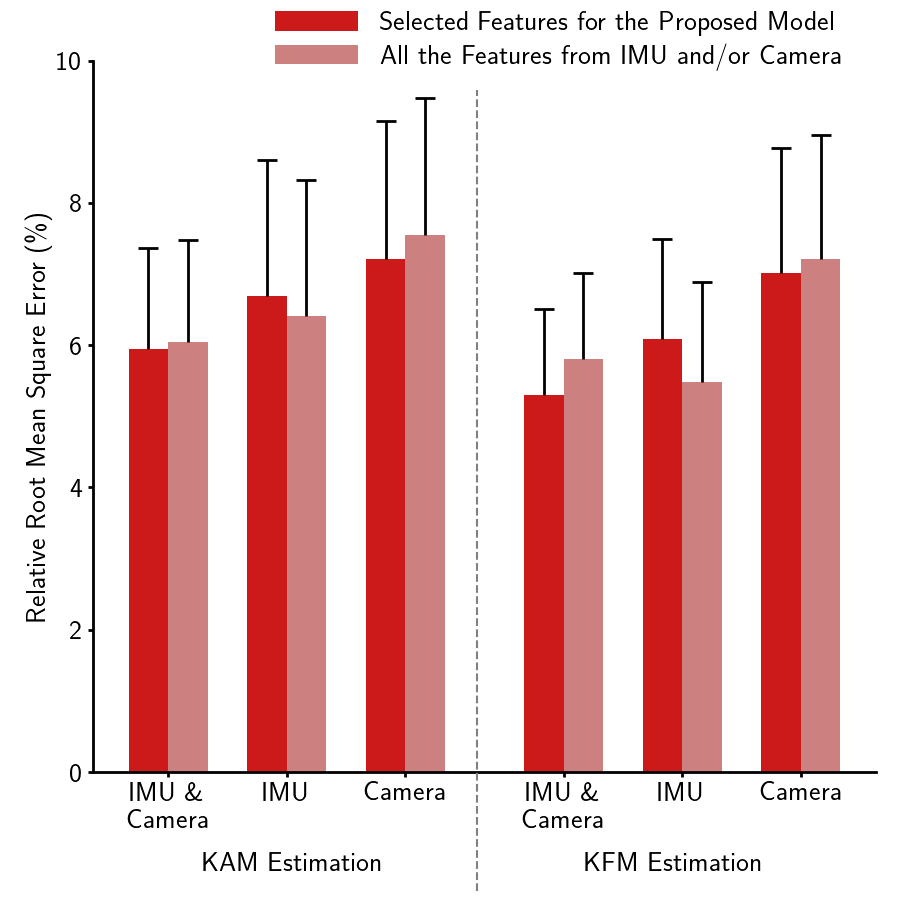
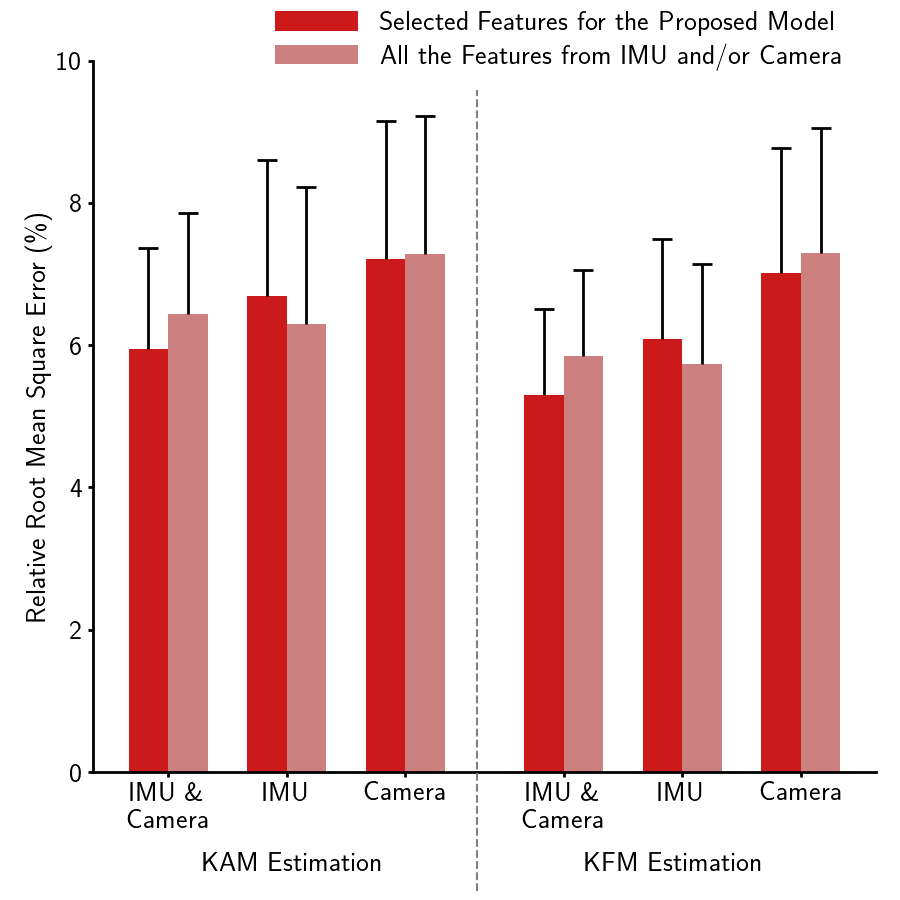
fixed the rand seed, changed all feature defination for tian model

diff --git a/tian_model.py b/tian_model.py
@@ -78,6 +78,7 @@ class TianCNN(nn.Module):
 class TianRNN(nn.Module):
     def __init__(self, x_dim, y_dim, hidden_dim=10, nlayer=2):
         super(TianRNN, self).__init__()
+        torch.manual_seed(0)
         self.hidden_dim = hidden_dim
         self.rnn_layer = nn.LSTM(x_dim, hidden_dim, nlayer, batch_first=True, bidirectional=True)
         self.y_dim = y_dim
@@ -146,7 +147,7 @@ class TianModel(BaseModel):
         self.train_step_lens, self.validation_step_lens, self.test_step_lens = [None] * 3
         self.vid_static_cali()
         self.get_relative_vid_vector()
-        self.get_rotated_gravityfree_body_weighted_imu()
+        self.get_body_weighted_imu()
         self.add_additional_columns()
         self.iter = 0
 
@@ -197,105 +198,49 @@ class TianModel(BaseModel):
             self._data_all_sub[sub_name] = np.concatenate([sub_data, knee_vector], axis=2)
         self._data_fields.extend(['KNEE_X', 'KNEE_Y', 'KNEE_Z'])
 
-    def get_rotated_gravityfree_body_weighted_imu(self, ROTATE_IMU=False):
-        def transform_segment_imu(segment_imu, segment_ml, segment_y, segment_z=None):
-            data_shape_ori = segment_imu.shape
-            segment_acc, segment_gyr = segment_imu[:, :, :3].reshape([-1, 3]), segment_imu[:, :, 3:].reshape([-1, 3])
-            segment_ml = segment_ml.reshape([-1, 3])
-            if segment_z is None:
-                segment_y = segment_y.reshape([-1, 3])
-                segment_z = np.cross(segment_ml, segment_y)
-                segment_x = np.cross(segment_y, segment_z)
-            else:
-                segment_z = segment_z.reshape([-1, 3])
-                segment_y = np.cross(segment_z, segment_ml)
-                segment_x = np.cross(segment_y, segment_z)
-
-            fun_norm_vect = lambda v: v / np.linalg.norm(v)
-            segment_x = np.apply_along_axis(fun_norm_vect, 1, segment_x)
-            segment_y = np.apply_along_axis(fun_norm_vect, 1, segment_y)
-            segment_z = np.apply_along_axis(fun_norm_vect, 1, segment_z)
-
-            dcm_mat = np.array([segment_x, segment_y, segment_z])
-            dcm_mat = np.swapaxes(dcm_mat, 0, 1)
-            segment_acc_rotated = np.array(list(map(np.matmul, dcm_mat, segment_acc)))
-            segment_gyr_rotated = np.array(list(map(np.matmul, dcm_mat, segment_gyr)))
-            segment_imu_transformed = np.column_stack([segment_acc_rotated, segment_gyr_rotated]).reshape(data_shape_ori)
-            segment_imu_transformed[np.isnan(segment_imu_transformed)] = 0
-            return segment_imu_transformed
-        imu_lfoot_col_loc = [self._data_fields.index(field + '_L_FOOT') for field in IMU_FIELDS[:6]]
-        imu_lshank_col_loc = [self._data_fields.index(field + '_L_SHANK') for field in IMU_FIELDS[:6]]
-        imu_lthigh_col_loc = [self._data_fields.index(field + '_L_THIGH') for field in IMU_FIELDS[:6]]
-        imu_rfoot_col_loc = [self._data_fields.index(field + '_R_FOOT') for field in IMU_FIELDS[:6]]
-        imu_rshank_col_loc = [self._data_fields.index(field + '_R_SHANK') for field in IMU_FIELDS[:6]]
-        imu_rthigh_col_loc = [self._data_fields.index(field + '_R_THIGH') for field in IMU_FIELDS[:6]]
-        imu_pelvis_col_loc = [self._data_fields.index(field + '_WAIST') for field in IMU_FIELDS[:6]]
-        imu_trunk_col_loc = [self._data_fields.index(field + '_CHEST') for field in IMU_FIELDS[:6]]
-
-        marker_lknee_col_loc = [self._data_fields.index(field_name) for field_name in LKNEE_MARKER_FIELDS]
-        marker_lankle_col_loc = [self._data_fields.index(field_name) for field_name in LANKLE_MARKER_FIELDS]
-        marker_lhip_col_loc = [self._data_fields.index(field_name) for field_name in LHIP_MARKER_FIELDS]
-        marker_rknee_col_loc = [self._data_fields.index(field_name) for field_name in RKNEE_MARKER_FIELDS]
-        marker_rankle_col_loc = [self._data_fields.index(field_name) for field_name in RANKLE_MARKER_FIELDS]
-        marker_rhip_col_loc = [self._data_fields.index(field_name) for field_name in RHIP_MARKER_FIELDS]
-        marker_asis_col_loc = [self._data_fields.index(field_name) for field_name in ASIS_MARKER_FIELDS]
-        marker_psis_col_loc = [self._data_fields.index(field_name) for field_name in PSIS_MARKER_FIELDS]
-        marker_shoulder_col_loc = [self._data_fields.index(field_name) for field_name in SHOULDER_MARKER_FIELDS]
-        marker_spine_col_loc = [self._data_fields.index(field_name) for field_name in SPINE_MARKER_FIELDS]
-
+    def get_body_weighted_imu(self):
         weight_col_loc = self._data_fields.index(SUBJECT_WEIGHT)
         for sub_name, sub_data in self._data_all_sub.items():
-            if ROTATE_IMU:
-                lshank_ml = sub_data[:, :, marker_lknee_col_loc[:3]] - sub_data[:, :, marker_lknee_col_loc[3:]]
-                lshank_y = (sub_data[:, :, marker_lknee_col_loc[:3]] + sub_data[:, :, marker_lknee_col_loc[3:]]) / 2 - \
-                           (sub_data[:, :, marker_lankle_col_loc[:3]] + sub_data[:, :, marker_lankle_col_loc[3:]]) / 2
-                sub_data[:, :, imu_lshank_col_loc] = transform_segment_imu(sub_data[:, :, imu_lshank_col_loc], lshank_ml, lshank_y)
-                lthigh_ml = lshank_ml
-                lthigh_y = sub_data[:, :, marker_lhip_col_loc] - \
-                           (sub_data[:, :, marker_lknee_col_loc[:3]] + sub_data[:, :, marker_lknee_col_loc[3:]]) / 2
-                sub_data[:, :, imu_lthigh_col_loc] = transform_segment_imu(sub_data[:, :, imu_lthigh_col_loc], lthigh_ml, lthigh_y)
-                trunk_ml = sub_data[:, :, marker_shoulder_col_loc[:3]] - sub_data[:, :, marker_shoulder_col_loc[3:]]
-                trunk_y = sub_data[:, :, marker_spine_col_loc[:3]] - sub_data[:, :, marker_spine_col_loc[3:]]
-                sub_data[:, :, imu_trunk_col_loc] = transform_segment_imu(sub_data[:, :, imu_trunk_col_loc], trunk_ml, trunk_y)
-                pelvis_ml = sub_data[:, :, marker_asis_col_loc[:3]] - sub_data[:, :, marker_asis_col_loc[3:]]
-                pelvis_z = (sub_data[:, :, marker_asis_col_loc[:3]] + sub_data[:, :, marker_asis_col_loc[3:]]) / 2 - \
-                           (sub_data[:, :, marker_psis_col_loc[:3]] + sub_data[:, :, marker_psis_col_loc[3:]]) / 2
-                sub_data[:, :, imu_pelvis_col_loc] = transform_segment_imu(sub_data[:, :, imu_pelvis_col_loc], pelvis_ml, None, pelvis_z)
-                rshank_ml = sub_data[:, :, marker_rknee_col_loc[:3]] - sub_data[:, :, marker_rknee_col_loc[3:]]
-                rshank_y = (sub_data[:, :, marker_rknee_col_loc[:3]] + sub_data[:, :, marker_rknee_col_loc[3:]]) / 2 - \
-                          (sub_data[:, :, marker_rankle_col_loc[:3]] + sub_data[:, :, marker_rankle_col_loc[3:]]) / 2
-                sub_data[:, :, imu_rshank_col_loc] = transform_segment_imu(sub_data[:, :, imu_rshank_col_loc], rshank_ml, rshank_y)
-                rthigh_ml = rshank_ml
-                rthigh_y = sub_data[:, :, marker_rhip_col_loc] - \
-                          (sub_data[:, :, marker_rknee_col_loc[:3]] + sub_data[:, :, marker_rknee_col_loc[3:]]) / 2
-                sub_data[:, :, imu_rthigh_col_loc] = transform_segment_imu(sub_data[:, :, imu_rthigh_col_loc], rthigh_ml, rthigh_y)
-
             sub_weight = sub_data[0, 0, weight_col_loc]
-            sub_data[:, :, imu_lfoot_col_loc[:3]] = sub_data[:, :, imu_lfoot_col_loc[:3]] * sub_weight * SEGMENT_MASS_PERCENT['L_FOOT'] / 100
-            sub_data[:, :, imu_lshank_col_loc[:3]] = sub_data[:, :, imu_lshank_col_loc[:3]] * sub_weight * SEGMENT_MASS_PERCENT['L_SHANK'] / 100
-            sub_data[:, :, imu_lthigh_col_loc[:3]] = sub_data[:, :, imu_lthigh_col_loc[:3]] * sub_weight * SEGMENT_MASS_PERCENT['L_THIGH'] / 100
-            sub_data[:, :, imu_rfoot_col_loc[:3]] = sub_data[:, :, imu_rfoot_col_loc[:3]] * sub_weight * SEGMENT_MASS_PERCENT['R_FOOT'] / 100
-            sub_data[:, :, imu_rshank_col_loc[:3]] = sub_data[:, :, imu_rshank_col_loc[:3]] * sub_weight * SEGMENT_MASS_PERCENT['R_SHANK'] / 100
-            sub_data[:, :, imu_rthigh_col_loc[:3]] = sub_data[:, :, imu_rthigh_col_loc[:3]] * sub_weight * SEGMENT_MASS_PERCENT['R_THIGH'] / 100
-            sub_data[:, :, imu_pelvis_col_loc[:3]] = sub_data[:, :, imu_pelvis_col_loc[:3]] * sub_weight * SEGMENT_MASS_PERCENT['WAIST'] / 100
-            sub_data[:, :, imu_trunk_col_loc[:3]] = sub_data[:, :, imu_trunk_col_loc[:3]] * sub_weight * SEGMENT_MASS_PERCENT['CHEST'] / 100
+            if USE_ALL_FEATURES:
+                segment_weight_list = [sub_weight * SEGMENT_MASS_PERCENT[segment] / 100 for segment in SENSOR_LIST]
+                segment_weights = np.full([sub_data.shape[0], sub_data.shape[1], len(SENSOR_LIST)], segment_weight_list)
+                self._data_all_sub[sub_name] = np.concatenate([sub_data, segment_weights], axis=2)
+                if 'L_FOOT_WEIGHT' not in self._data_fields:
+                    self._data_fields.extend(SEGMENT_WEIGHTS)
+            else:
+                imu_lfoot_col_loc = [self._data_fields.index(field + '_L_FOOT') for field in IMU_FIELDS[:6]]
+                imu_lshank_col_loc = [self._data_fields.index(field + '_L_SHANK') for field in IMU_FIELDS[:6]]
+                imu_lthigh_col_loc = [self._data_fields.index(field + '_L_THIGH') for field in IMU_FIELDS[:6]]
+                imu_rfoot_col_loc = [self._data_fields.index(field + '_R_FOOT') for field in IMU_FIELDS[:6]]
+                imu_rshank_col_loc = [self._data_fields.index(field + '_R_SHANK') for field in IMU_FIELDS[:6]]
+                imu_rthigh_col_loc = [self._data_fields.index(field + '_R_THIGH') for field in IMU_FIELDS[:6]]
+                imu_pelvis_col_loc = [self._data_fields.index(field + '_WAIST') for field in IMU_FIELDS[:6]]
+                imu_trunk_col_loc = [self._data_fields.index(field + '_CHEST') for field in IMU_FIELDS[:6]]
 
-            self._data_all_sub[sub_name] = sub_data
+                sub_data[:, :, imu_lfoot_col_loc[:3]] = sub_data[:, :, imu_lfoot_col_loc[:3]] * sub_weight * SEGMENT_MASS_PERCENT['L_FOOT'] / 100
+                sub_data[:, :, imu_lshank_col_loc[:3]] = sub_data[:, :, imu_lshank_col_loc[:3]] * sub_weight * SEGMENT_MASS_PERCENT['L_SHANK'] / 100
+                sub_data[:, :, imu_lthigh_col_loc[:3]] = sub_data[:, :, imu_lthigh_col_loc[:3]] * sub_weight * SEGMENT_MASS_PERCENT['L_THIGH'] / 100
+                sub_data[:, :, imu_rfoot_col_loc[:3]] = sub_data[:, :, imu_rfoot_col_loc[:3]] * sub_weight * SEGMENT_MASS_PERCENT['R_FOOT'] / 100
+                sub_data[:, :, imu_rshank_col_loc[:3]] = sub_data[:, :, imu_rshank_col_loc[:3]] * sub_weight * SEGMENT_MASS_PERCENT['R_SHANK'] / 100
+                sub_data[:, :, imu_rthigh_col_loc[:3]] = sub_data[:, :, imu_rthigh_col_loc[:3]] * sub_weight * SEGMENT_MASS_PERCENT['R_THIGH'] / 100
+                sub_data[:, :, imu_pelvis_col_loc[:3]] = sub_data[:, :, imu_pelvis_col_loc[:3]] * sub_weight * SEGMENT_MASS_PERCENT['WAIST'] / 100
+                sub_data[:, :, imu_trunk_col_loc[:3]] = sub_data[:, :, imu_trunk_col_loc[:3]] * sub_weight * SEGMENT_MASS_PERCENT['CHEST'] / 100
+                self._data_all_sub[sub_name] = sub_data
 
     def preprocess_train_data(self, x, y, weight):
         y['midout_force_x'], y['midout_force_z'] = -y['midout_force_x'], -y['midout_force_z']
         y['midout_r_x'], y['midout_r_z'] = y['midout_r_x'] / 1000, y['midout_r_z'] / 1000
-        self._x_fields_acc_loc = {}
+        self._x_fields_loc_and_mode = {}
         for k in set(list(x.keys())) - set(['anthro']):
             acc_loc = [self._x_fields[k].index(field) for field in self._x_fields[k] if 'Acc' in field]
-            other_loc = [self._x_fields[k].index(field) for field in self._x_fields[k] if 'Acc' not in field]
-            self._x_fields_acc_loc[k] = {'acc_loc': acc_loc, 'other_loc': other_loc}
-            if len(acc_loc) > 0:
-                x[k][:, :, acc_loc] = self.normalize_array_separately(
-                    x[k][:, :, acc_loc], k+'acc', 'fit_transform', scalar_mode='by_all_columns')
-            if len(other_loc) > 0:
-                x[k][:, :, other_loc] = self.normalize_array_separately(
-                    x[k][:, :, other_loc], k+'other', 'fit_transform', scalar_mode='by_each_column')
+            weight_loc = [self._x_fields[k].index(field) for field in self._x_fields[k] if 'WEIGHT' in field]
+            other_loc = [self._x_fields[k].index(field) for field in self._x_fields[k] if 'Acc' not in field and 'WEIGHT' not in field]
+            self._x_fields_loc_and_mode[k] = ([acc_loc, weight_loc, other_loc], ['acc', 'weight', 'other'], ['by_all_columns', 'by_all_columns', 'by_each_column'])
+            for loc, loc_name, mode in zip(*self._x_fields_loc_and_mode[k]):
+                if len(loc) > 0:
+                    x[k][:, :, loc] = self.normalize_array_separately(
+                        x[k][:, :, loc], k+loc_name, 'fit_transform', scalar_mode=mode)
 
         y_need_norm = {k: y[k] for k in set(list(y.keys())) - set(['main_output', 'auxiliary_info'])}
         y.update(
@@ -307,13 +252,10 @@ class TianModel(BaseModel):
         y['midout_r_x'], y['midout_r_z'] = y['midout_r_x'] / 1000, y['midout_r_z'] / 1000
 
         for k in set(list(x.keys())) - set(['anthro']):
-            acc_loc, other_loc = self._x_fields_acc_loc[k]['acc_loc'], self._x_fields_acc_loc[k]['other_loc']
-            if len(acc_loc) > 0:
-                x[k][:, :, acc_loc] = self.normalize_array_separately(
-                    x[k][:, :, acc_loc], k+'acc', 'transform', scalar_mode='by_all_columns')
-            if len(other_loc) > 0:
-                x[k][:, :, other_loc] = self.normalize_array_separately(
-                    x[k][:, :, other_loc], k+'other', 'transform', scalar_mode='by_each_column')
+            for loc, loc_name, mode in zip(*self._x_fields_loc_and_mode[k]):
+                if len(loc) > 0:
+                    x[k][:, :, loc] = self.normalize_array_separately(
+                        x[k][:, :, loc], k+loc_name, 'transform', scalar_mode=mode)
 
         y_need_norm = {k: y[k] for k in set(list(y.keys())) - set(['main_output', 'auxiliary_info'])}
         y.update(**self.normalize_data(y_need_norm, self._data_scalar, 'transform', scalar_mode='by_each_column'))
@@ -370,15 +312,11 @@ class TianModel(BaseModel):
         self.build_sub_model(model_fx, x_train_fx, y_train_fx, x_validation_fx, y_validation_fx, validation_weight, params)
 
         four_source_model = FourSourceModel(model_fx, model_fz, model_rx, model_rz, self._data_scalar)
-        model_fx_pre = type(model_fx)(x_train_fx.shape[2], y_train_fx.shape[2]).cuda()
-        model_fz_pre = type(model_fz)(x_train_fz.shape[2], y_train_fz.shape[2]).cuda()
-        model_rx_pre = type(model_rx)(x_train_rx.shape[2], y_train_rx.shape[2]).cuda()
-        model_rz_pre = type(model_rz)(x_train_rz.shape[2], y_train_rz.shape[2]).cuda()
-        model_fx_pre.load_state_dict(model_fx.state_dict())
-        model_fz_pre.load_state_dict(model_fz.state_dict())
-        model_rx_pre.load_state_dict(model_rx.state_dict())
-        model_rz_pre.load_state_dict(model_rz.state_dict())
         four_source_model_pre = copy.deepcopy(four_source_model).cuda()
+        model_fx_pre = copy.deepcopy(model_fx).cuda()
+        model_fz_pre = copy.deepcopy(model_fz).cuda()
+        model_rx_pre = copy.deepcopy(model_rx).cuda()
+        model_rz_pre = copy.deepcopy(model_rz).cuda()
 
         params = {**sub_model_base_param, **{'target_name': 'main_output', 'fields': ['EXT_KM_Y']}}
         # self.build_main_model(four_source_model, x_train, y_train, x_validation, y_validation, validation_weight, params)
@@ -676,7 +614,7 @@ def run_kam(use_imu, use_op):
     input_vid = {'force_x': VID_180_FIELDS, 'force_z': VID_180_FIELDS, 'r_x': VID_180_FIELDS, 'r_z': ['RKnee_y_90']}
 
     if USE_ALL_FEATURES:
-        input_imu = {'force_x': ACC_GYR_ALL, 'force_z': ACC_GYR_ALL, 'r_x': ACC_GYR_ALL, 'r_z': ACC_GYR_ALL}
+        input_imu = {'force_x': ACC_ALL_GYR_LEG, 'force_z': ACC_ALL_GYR_LEG, 'r_x': ACC_ALL_GYR_LEG, 'r_z': ACC_ALL_GYR_LEG}
         input_vid = {'force_x': VID_ALL, 'force_z': VID_ALL, 'r_x': VID_ALL, 'r_z': VID_ALL}
 
     x_fields = {'force_x': [], 'force_z': [], 'r_x': [], 'r_z': []}
@@ -704,7 +642,7 @@ def run_kfm(use_imu, use_op):
     input_vid = {'force_y': VID_90_FIELDS, 'force_z': VID_180_FIELDS, 'r_y': VID_90_FIELDS, 'r_z': ['RKnee_y_90']}
 
     if USE_ALL_FEATURES:
-        input_imu = {'force_y': ACC_GYR_ALL, 'force_z': ACC_GYR_ALL, 'r_y': ACC_GYR_ALL, 'r_z': ACC_GYR_ALL}
+        input_imu = {'force_y': ACC_ALL_GYR_LEG, 'force_z': ACC_ALL_GYR_LEG, 'r_y': ACC_ALL_GYR_LEG, 'r_z': ACC_ALL_GYR_LEG}
         input_vid = {'force_y': VID_ALL, 'force_z': VID_ALL, 'r_y': VID_ALL, 'r_z': VID_ALL}
 
     x_fields = {'force_y': [], 'force_z': [], 'r_y': [], 'r_z': []}
@@ -742,8 +680,11 @@ if __name__ == "__main__":
     R_FOOT_SHANK_GYR = ["Gyro" + axis + sensor for sensor in ['R_SHANK', 'R_FOOT'] for axis in ['X_', 'Y_', 'Z_']]
 
     ACC_GYR_ALL = [field + '_' + sensor for sensor in SENSOR_LIST for field in IMU_FIELDS[:6]]
+    SEGMENT_WEIGHTS = [segment + '_WEIGHT' for segment in SENSOR_LIST]
+    ACC_GYR_WEIGHTS_ALL = ACC_GYR_ALL + SEGMENT_WEIGHTS
+    ACC_ALL_GYR_LEG = ACC_ML + ACC_AP + ACC_VERTICAL + R_FOOT_SHANK_GYR
     VID_ALL = VID_90_FIELDS + VID_180_FIELDS + ['RKnee_y_90']
-    USE_ALL_FEATURES = False
+    USE_ALL_FEATURES = True
 
     run_kam(use_imu=True, use_op=True)
     run_kam(use_imu=True, use_op=False)

diff --git a/figures/post_hoc_analysis.py b/figures/post_hoc_analysis.py
@@ -1,22 +1,47 @@
 from scikit_posthocs import posthoc_tukey, posthoc_ttest
 import pandas as pd
 import numpy as np
-from const import TRIALS, SUBJECTS
+from const import TRIALS, SUBJECTS, TRIALS_PRINT
+from scipy.stats import ttest_1samp
 
-
-REMOVE_SUBJECT_MEAN = True
 
 if __name__ == '__main__':
+    result_date = 'results/0122_'       # _used_all_the_features_
     metric = 'RMSE'
     result_names = ['_IMU_OP', '_IMU', '_OP']
-    for target in ['KAM']:
-        result_df = pd.read_csv('./exports/' + target + '_estimation_result_individual.csv')
-        for trial in TRIALS + ['all']:
+
+    """ t test to compare whether the increase is significantly larger than zero """
+    for target in ['KAM', 'KFM']:
+        result_df = pd.read_csv(result_date + target + '/estimation_result_individual.csv')
+        for i_trial, trial in enumerate(TRIALS):
             trial_df = result_df[result_df['trial'] == trial][[metric + result_name for result_name in result_names]]
-            if REMOVE_SUBJECT_MEAN:
-                sub_mean = np.mean(trial_df.values, axis=1)
-                trial_df = trial_df.subtract(sub_mean, axis=0)
-            trial_df = trial_df.melt(var_name='groups', value_name='values')
-            posthoc_result = posthoc_tukey(trial_df, val_col='values', group_col='groups')
-            print('\n' + trial)
-            print(posthoc_result)
+            print('\t\t& {:12}'.format(TRIALS_PRINT[i_trial]), end='')
+            for result in result_names[1:]:
+                increase_percent = (trial_df[metric + result] - trial_df[metric + '_IMU_OP']) / trial_df[metric + '_IMU_OP'] * 100
+                significance = ''
+                if ttest_1samp(increase_percent, 0.).pvalue < 0.05:
+                    significance = '*'
+                print('&{:6.1f} ({:4.1f}) {:1}'.format(np.mean(increase_percent), np.std(increase_percent), significance), end='\t')
+            print('\\\\')
+
+            # only_imu_increase = (trial_df[metric + '_IMU'] - trial_df[metric + '_IMU_OP']) / trial_df[metric + '_IMU_OP'] * 100
+            # only_cam_increase = (trial_df[metric + '_OP'] - trial_df[metric + '_IMU_OP']) / trial_df[metric + '_IMU_OP'] * 100
+            # p_value, _ = ttest_1samp(only_imu_increase, 0.)
+            # print('\t\t& {:12}& {:6.1f} ({:4.1f}) &{:6.1f} ({:4.1f}) \\\\'.format(TRIALS_PRINT[i_trial],
+            #     np.mean(only_imu_increase), np.std(only_imu_increase), np.mean(only_cam_increase), np.std(only_cam_increase)))
+
+
+
+    # """ post hoc to compare actual values """
+    # REMOVE_SUBJECT_MEAN = True
+    # for target in ['KAM']:
+    #     result_df = pd.read_csv(result_date + target + '/estimation_result_individual.csv')
+    #     for trial in TRIALS + ['all']:
+    #         trial_df = result_df[result_df['trial'] == trial][[metric + result_name for result_name in result_names]]
+    #         if REMOVE_SUBJECT_MEAN:
+    #             sub_mean = np.mean(trial_df.values, axis=1)
+    #             trial_df = trial_df.subtract(sub_mean, axis=0)
+    #         trial_df = trial_df.melt(var_name='groups', value_name='values')
+    #         posthoc_result = posthoc_tukey(trial_df, val_col='values', group_col='groups')
+    #         print('\n' + trial)
+    #         print(posthoc_result)

diff --git a/figures/f5.py b/figures/f5.py
@@ -62,7 +62,7 @@ if __name__ == "__main__":
     for i_moment, moment in enumerate(['KAM', 'KFM']):
         sel_feature_df = pd.read_csv('results/0122_' + moment + '/estimation_result_individual.csv')
         sel_feature_df = sel_feature_df[sel_feature_df['trial'] == 'all']
-        all_feature_df = pd.read_csv('results/0120_used_all_the_features_' + moment + '/estimation_result_individual.csv')
+        all_feature_df = pd.read_csv('results/0122_used_all_the_features_' + moment + '/estimation_result_individual.csv')
         all_feature_df = all_feature_df[all_feature_df['trial'] == 'all']
         for data_modal in ['IMU_OP', 'IMU', 'OP']:
             sel_feature_result = sel_feature_df[target_matric + data_modal]

diff --git a/figures/f3.py b/figures/f3.py
@@ -59,10 +59,10 @@ def draw_f3(mean_std_kam, mean_std_kfm):
 
 
 if __name__ == "__main__":
-    with h5py.File('results/0114_KAM/OP/results.h5', 'r') as hf:
+    with h5py.File('results/0122_KAM/OP/results.h5', 'r') as hf:
         kam_data_all_sub = {subject: subject_data[:] for subject, subject_data in hf.items()}
         kam_data_fields = json.loads(hf.attrs['columns'])
-    with h5py.File('results/0114_KFM/OP/results.h5', 'r') as hf:
+    with h5py.File('results/0122_KFM/OP/results.h5', 'r') as hf:
         kfm_data_all_sub = {subject: subject_data[:] for subject, subject_data in hf.items()}
         kfm_data_fields = json.loads(hf.attrs['columns'])
 

diff --git a/figures/table_metrics.py b/figures/table_metrics.py
@@ -44,7 +44,7 @@ def get_all_results(h5_dir):
 
 
 if __name__ == '__main__':
-    result_date = 'results/0122_'       # _used_all_the_features_
+    result_date = 'results/0122_used_all_the_features_'       # used_all_the_features_
     for target in ['KAM', 'KFM']:
         IMU_OP_results, IMU_results, OP_results = [get_all_results(result_date + target + '/' + sensor)
                                                    for sensor in ['IMU+OP', 'IMU', 'OP']]
